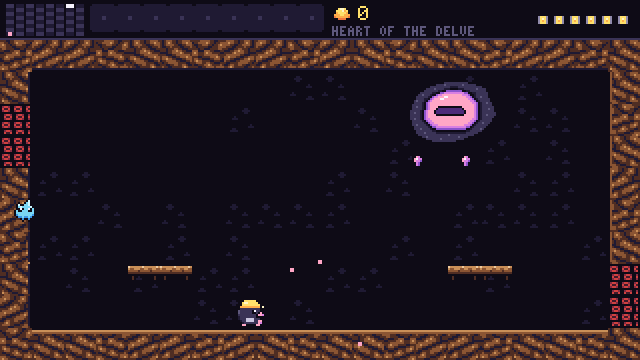
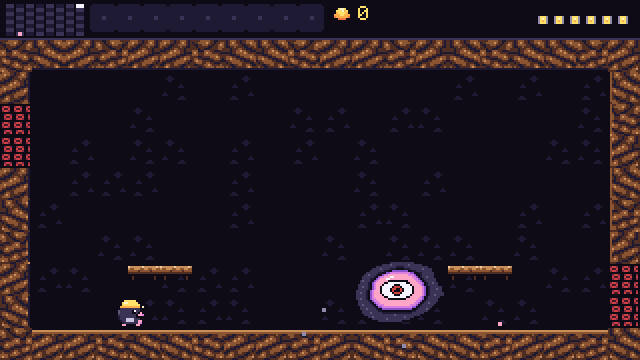
Docs, README and shots after the fidelity review
- Underdelve doc: the structure table shows coarse structure only (no
  Barbuta cells); checklist rows for the boss starting on entry, traps,
  glow-worms, the HUD, the relight, ground-only ladders, still pools,
  newt facings and secrets; shorter readings; new sources.
- Grub Shift doc: growth as the wiki words it, queens to eggs, the
  moundmaker acting once, the hivebug same-move rule, VOLATILE chains,
  GATHER, the streak kept after a win, the card diagrams; the save thread.
- README: both sections and the Underdelve row.
- Shots: the boss awake in its nest, the HUD without room names, the
  new card diagrams, and the 64-screen map re-stitched on the new plan.

diff --git a/docs/games/01-underdelve.md b/docs/games/01-underdelve.md
@@ -10,22 +10,23 @@ forum threads (listed under Sources). No UFO 50 images, video, maps, music or
 text were used as references.
 
 **Map type: fixed.** Barbuta's castle is one hand-made map, so ours is too
-(`underdelve_rooms.c`). It copies the original's structure where the text
-describes it, never its layouts:
+(`underdelve_rooms.c`). It follows the original's coarse structure where the
+text describes it; the rooms, their layouts and which grid cell holds what
+are ours (no feature stands in the cell the wiki gives it in Barbuta):
 
 | Structure | Barbuta (text sources) | UNDERDELVE |
 |---|---|---|
 | Map size | 8×8 flip screens [W] | 8×8 rooms (64 screens) |
 | Wrap-around | leaving one side brings you in on the other [MG], [SD] | rows open at the edge wrap east ↔ west |
-| Start | the left side of the map [GR] | Mo's camp, west side (A6) |
-| Final boss | top right, in a tower [W], [GR] | the Old Lode at G1, the Sunstone at H1 |
-| Life vendor | next to the boss [W], [GR] | the Lantern Keeper at F1 |
-| Shops | B4 and B7 [W] | Burlap's Post at B4, the Owl's Exchange at B7 |
-| Weapon trader | G8 [W] | the Salamander Forge at G8 |
-| Blood sword | push the blocks at C4, enter C5 and die on its spikes [W] | Block Room C4, Hungry Spikes C5 |
-| Key puzzle | ladders climbed in an order carved elsewhere, mirrored [W] (D5, hint H7) | Tally Ladders D5, Carved Tablet H7 |
-| Bat altar | A4 [W] | Canary Altar A4 |
-| Platform item | reached through a pool that looks deadly [W], [GR] (D7/E7) | Poison Pool D7 → Crank Vault E7 |
+| Start | the left side of the map [GR] | Mo's camp, west side |
+| Shops | two, near the start [W] | Burlap's Post and the Owl's Exchange, just east of the camp, one above and one below |
+| Final boss | a tower, top right [W], [GR] | the Old Lode's nest, top right; the Sunstone just east of it, round the wrap |
+| Life vendor | next to the boss [W], [GR] | the Lantern Keeper, next door |
+| Weapon trader | bottom right [W] | the Salamander Forge, bottom right |
+| Blood sword | push blocks, then die on the spikes below [W] | Block Room over Hungry Spikes |
+| Key puzzle | ladders climbed in an order carved elsewhere, mirrored [W] | Tally Ladders, and the Carved Tablet far away |
+| Bat altar | the west side [W] | Canary Altar, west |
+| Platform item | reached through a pool that looks deadly [W], [GR] | Poison Pool → Crank Vault |
 | Three ways to the boss | a switch, a locked door, a 500-cash hammer [GR], [SB] | the lever, the Deep Gate, the smith |
 
 The zones by depth are ours: the Headframe and Upper Workings (rows 1-2),
@@ -38,29 +39,33 @@ Deep (rows 7-8).
 |---|---|---|
 | No title screen | the cartridge boots straight into the camp | [MG] |
 | Controls | D-pad walks and climbs; A jumps; B thrusts the weapon | [W], [MM] |
-| One fixed jump | the same arc every time (tap or hold); no air control at all: every jump and every fall is committed | [W], [MM] |
+| One fixed jump | the same arc every time (tap or hold); no air control: every jump and every fall is committed | [W], [MM] |
 | Jump speed | a jump carries Mo's walking speed; a standing jump goes straight up | [W], [MM] (reading) |
 | Slow, stiff walker | full speed at once, no run; slower than every other UFO 40 hero | [W], [MG], [LN] |
 | Low jump | a little over two tiles; some drops can't be climbed back up | [TH] |
+| Ladders | taken from the ground only (no catching one in mid-air) | [W] |
 | Short weapon | the pick reaches barely past Mo; most foes take 2-3 hits | [W], [LZ] |
 | No hit feedback | nothing shows until a foe dies | [W] |
-| One-hit death | any foe, shot, spike, ooze or drip | [W], [MM], [LZ] |
+| One-hit death | any foe, shot, spike, ooze, drip or falling rock | [W], [MM], [LZ] |
 | Lives | six spare lanterns and the one Mo is on: seven lives | [MM], [GR] |
-| Respawn | where Mo came into the room, keeping his items and ore (holding the ladder if he came in on one) | [MM], [GR] |
+| Respawn | a spare lantern flickers alight where Mo came into the room; he keeps his items and ore | [MM], [GR], [LZ] |
 | Game over | with no lantern left, a death ends the delve; no continues, the next delve starts from the camp | [MM], [W] |
 | Buying lives | the Lantern Keeper, just before the boss: 100 a lantern, up to six | [W], [GR] |
-| Roaming Death | the Gloom moves one map cell, in a random direction, every time Mo changes room; the HUD map shows it | [W], [GR] |
+| Roaming Death | the Gloom moves one map cell, in a random direction, every time Mo changes room; the HUD map shows it; nothing explains it | [W], [GR], [SM] |
 | Roaming Death in a room | rises in the middle, then chases Mo at twice his speed; can't be hurt; its touch ends the delve (every lantern at once); leaving the room escapes it | [W], [MG] |
-| Flip-screen map | 8×8 screens; a HUD map shows Mo's room and the Gloom's | [W], [MM] |
-| Foes come back | every foe returns when Mo re-enters a room; ore and items stay taken | [W] |
-| Money | chests struck open (50 or 100), loose gems (100), miner's shrines that pay 100 once their room is clear | [W] |
-| Crumbly walls | the pick chips unstable walls; ore can hide inside | [W] |
-| Hidden things | walk-through rock, invisible blocks, ladders that appear once climbed | [W], [GR], [SD] |
-| Deaths on purpose | dying on one room's spikes brings Mo back where only the dead can go (the hungry pick) | [W], [SC] |
+| HUD | ore, items, lanterns and the map; no room names | [MM], [MG] |
+| Flip-screen map | 8×8 screens | [W] |
+| Foes | always where the map puts them, and back whenever Mo re-enters a room; ore and items stay taken | [W] |
+| Traps | a floor tile with a faint seam drops a loose rock from the ceiling; it kills and stays where it lands. One right beside the start | [GR], [SS], [MG] |
+| Hint-givers | five glow-worms, each with one cryptic line (UP beside them) | [LZ] |
+| Money | chests struck open (50 or 100), loose gems (100), miner's shrines that pay 100 once their room is clear, ore in cracked rock | [W] |
+| Secrets | walk-through rock hiding gems, cracked rock that gives way to three blows (a gem behind it or ore inside), invisible blocks, ladders that appear once climbed | [W], [GR], [SD], [SC], [LZ] |
+| Still pools | the harmless ooze lies still; only deadly ooze churns | [SD] |
+| Deaths on purpose | dying on one room's spikes brings Mo back where only the dead can go (the hungry pick) | [W], [TT] |
 | Push blocks | holding against crates slides them and opens a way down | [W], [GR] |
 | Ceiling drips | deadly without the umbrella (our copper pot) | [W] |
 | Magic bubbles | crystal the pick pops once Mo has the pin (our tuning fork) | [W] |
-| Red platforms | the mine lifts only run with the necklace (our gear crank) | [W] |
+| Red platforms | the mine lifts only run with the necklace (our gear crank) | [W], [GR] |
 | Candy | climbing gloves: twice as fast on ladders | [W] |
 | Key | opens the tower door (our brass tally and the Deep Gate) | [W] |
 | Trash | an old boot, 50 ore, useless | [W] |
@@ -70,7 +75,7 @@ Deep (rows 7-8).
 | Blood sword | the hungry pick hits twice as hard | [W] |
 | Shop prices | pot 100 (Burlap) or 50 (Owl), boot 50, fork 200, gloves 100, lanterns 100, the smith 500 | [W], [GR] |
 | Items aren't explained | nothing tells Mo what an item does | [MG] |
-| Boss start | the Old Lode sleeps in its nest until Mo strikes it | [SB] (reading) |
+| Boss start | the fight starts as Mo reaches the nest; the way back closes behind him | [TH] |
 | Final boss | 8 hits; drifts overhead dropping two shots at once, now and then drops to the floor, where it can be hurt; wisps cross the arena on a wave | [W] |
 | Goals | see Additions | [W], [GR] |
 
@@ -81,7 +86,7 @@ Deep (rows 7-8).
 | Dustmoth | 1 | flies through walls, changing direction at random | Bat |
 | Hop toad | 3 | hops four tiles left or right at random, bouncing off walls | Hopper |
 | Grub | 2 | crawls to and fro, turning at walls and ledges | Slime |
-| Axe newt | 2 | stays put facing one way and throws an axe four tiles ahead on a beat | Lizard |
+| Axe newt | 2 | stays put facing the way the map sets and throws an axe four tiles ahead on a beat | Lizard |
 | Swooper | 1 | hovers, then swoops at Mo | Fly |
 | Grabsack | 10 | a chest until Mo is within three tiles, then hops a tile at a time | Mimic |
 | Shellback | 3 | walks to and fro; only hurt from behind | Knight |
@@ -94,9 +99,9 @@ Deep (rows 7-8).
 - Numbers (walk 1 px/frame, jump 2.2 tiles, Gloom 2 px/frame): no source
   gives any.
 - The jump keeps walking speed ("single fixed jump", "no mid-air adjustment").
-- "Strike the blue egg" (a player's guess [SB]): any weapon wakes the Old Lode.
+- Ladders: a hop off one (A with a direction) is kept; Mo can reach a ladder
+  whose foot is just above his head.
 - Buying: UP at a shop, as up enters Barbuta's doors [MM].
-- No foe is placed within 40 px of Mo when he comes into a room.
 
 ## What is ours
 
@@ -108,13 +113,14 @@ Deep (rows 7-8).
 - **Items:** Copper Pot, Tuning Fork, Gear Crank, Climbing Gloves, Brass
   Tally, the Canary, Old Boot, the Sparker, Hungry Pick.
 - **Characters:** Burlap the toad, the Owl, the Forge salamander, the Lantern
-  Keeper, and the Smith with his sledgehammer.
+  Keeper, the Smith with his sledgehammer, and the glow-worms and their lines.
 - **Foes:** dustmoths, hop toads, grubs, axe newts, swoopers, grabsacks,
   shellbacks, wisps, the Gloom and the Old Lode.
-- **Map:** 64 original hand-built screens (`underdelve_rooms.c`).
+- **Map:** 64 original hand-built screens (`underdelve_rooms.c`) and where
+  each one stands.
 - **Music:** four original UFO-MML tracks (the mine theme, the Ember Deep
   theme, the boss theme, the victory theme) plus jingles. Barbuta has no
-  music; ours stays by choice.
+  music; Hamza keeps ours, and the death jingle, by choice.
 
 ## Additions: none
 
@@ -123,7 +129,7 @@ Only the platform needs every UFO 40 cartridge has:
 - the START pause menu;
 - saving: the delve is saved as it goes (each death at once), and a
   cartridge with a delve in progress asks CONTINUE or NEW DELVE; a game over
-  erases it;
+  erases it (Barbuta itself doesn't save);
 - the three UFO 40 goals, which replicate Barbuta's own three:
 
 | UFO 40 goal | Condition | Barbuta's goal |
@@ -137,7 +143,7 @@ Only the platform needs every UFO 40 cartridge has:
 | Input | Action |
 |---|---|
 | D-pad left/right | walk |
-| D-pad up/down | climb (hold UP mid-jump to catch a ladder); UP also buys, pulls the lever, pays the smith |
+| D-pad up/down | climb (a ladder is taken from the ground); UP also buys, pulls the lever, pays the smith, asks a glow-worm |
 | A | jump (one fixed arc) |
 | B | thrust the pick / fire the sparker |
 | START | pause menu |
@@ -148,35 +154,45 @@ Headless tests drive Mo with real button presses (`ud_*.ufs`); cheats only
 set up a room. Probes built on the game's own physics check the level
 design: every spot reachable on foot in every room (`reach_lost`), the rooms
 reachable from the camp with given items and gates (`reach_rooms_I_F`),
-things that can't be walked up to (`reach_missing_I_F`) and rooms whose way
-in would drop a returning Mo onto spikes (`respawn_traps`).
+things that can't be walked up to (`reach_missing_I_F`), rooms whose way in
+would drop a returning Mo onto spikes (`respawn_traps`) and foes placed on
+a way in (`entry_foes`).
 
 ## Sources
 
 - [W] UFO 50 Wiki (Miraheze), "Barbuta": controls, the committed jump, the
-  8×8 castle, items and where they are, prices, money, foes, the Roaming
-  Death, the Malignance, goals. https://ufo50.miraheze.org/wiki/Barbuta
+  8×8 castle, items, prices, money, foes, the Roaming Death, the Malignance,
+  goals. https://ufo50.miraheze.org/wiki/Barbuta
 - [MM] Steam guide "The missing manuals - How to play UFO 50 games": one
   jump height whether tapped or held, the thrust, up into doors, six eggs,
-  "no continues, nor a save system".
+  the sidebar (cash, items, map), "no continues, nor a save system".
   https://steamcommunity.com/sharedfiles/filedetails/?id=3350227767
 - [GR] Game Rant, "UFO 50: Barbuta Walkthrough (All Items, Secrets, and
-  Cherry)": respawning in the room, the egg vendor, the three paths and the
-  hammer's 500, the cherry.
+  Cherry)": the first tile to the right that drops the ceiling, respawning
+  in the room, the egg vendor, the three paths and the hammer's 500.
   https://gamerant.com/barbuta-walkthrough-items-secrets-cherry-ufo-50/
+- [SS] Set Side B, "A walkthrough of Barbuta": the first screen's trap.
+  https://setsideb.com/a-walkthrough-of-barbuta-ufo-50-1/
 - [MG] MoeGamer, "UFO 50: Kicking things off with Barbuta": no title screen,
-  sedate walking, the skull takes every life, the wrap, unexplained items.
-  https://moegamer.net/2024/09/20/ufo-50-kicking-things-off-with-barbuta/
-- [SD] Steam thread "Barbuta Discussion": the loop, invisible ladders.
+  sedate walking, the mean first-screen trap, the skull, the wrap, items
+  never explained. https://moegamer.net/2024/09/20/ufo-50-kicking-things-off-with-barbuta/
+- [SD] Steam thread "Barbuta Discussion": the loop, invisible ladders, the
+  still (non-animated) pools.
   https://steamcommunity.com/app/1147860/discussions/0/4852154959746326166
 - [SB] Steam thread "Barbuta: Can't seem to find a way to beat this game":
-  the blue egg, the invisible block, the lever, the altar.
+  the invisible block, the lever, the altar.
   https://steamcommunity.com/app/1147860/discussions/0/592887778739535799/
-- [TH] Thoughts on Series, "Thoughts on Barbuta": one-way drops.
+- [SM] Steam thread on the map dot: learn what it is by meeting it.
+  https://steamcommunity.com/app/1147860/discussions/0/4699034745340532462
+- [TH] Thoughts on Series, "Thoughts on Barbuta": one-way drops, the boss
+  room closing behind you.
   https://thoughtsonseries.substack.com/p/thoughts-on-barbuta-ufo-50
-- [LZ] Lizstar, UFO 50 #1: one-hit deaths, the short sword.
+- [LZ] Lizstar, UFO 50 #1: one-hit deaths, the short sword, hint-giving
+  blobs, cracked blocks, lives as eggs you hatch out of.
   https://lizstar64.github.io/reviews/2024/10/03/UFO50-1.html
+- [SC] Static Canvas, "The UFO 50 Diaries: Barbuta": hidden walls covering
+  secrets. https://staticcanvas.substack.com/p/the-ufo-50-diaries-barbuta
 - [LN] Lost Nostalgia, UFO 50 games 1-25: "painfully sluggish".
   https://lostnostalgia.com/ufo-50s-every-game-played-and-graded-1-25
-- [SC] Search summaries of the TV Tropes recap: dying on purpose to come back
+- [TT] Search summaries of the TV Tropes recap: dying on purpose to come back
   somewhere out of reach.

diff --git a/docs/games/02-grub-shift.md b/docs/games/02-grub-shift.md
@@ -47,23 +47,24 @@ too (`gs_new_contract`, `deal_terrain`). Generator rules:
 | Lobs | hit one tile, any height | [W] |
 | Blasts | only reach tiles at the pod's height; being high is safe | [W] |
 | Aiming preview | aiming shows every tile the attack will reach, chains and sparks included | [L] |
+| Tool cards | rolls and straight shots drawn as a solid line from Tilly, hops, lobs and area tools as dots | [W] |
 | Quota | 30 grubs per contract | [S], [L] |
 | Shifts | 10 on contracts 1-3, 9 on 4-6, 8 after | [W], [S] |
-| Growing | a colour grows when its larvae survive a night: they become adults and its grubs hatch as adults from then on. One colour a night, two per contract | [W], [S] |
-| Ageing | each night every adult becomes a queen and every queen an egg (not on the last night) | [W], [S], [ST] |
+| Growing | each night one type (colour) with grubs still alive evolves: all its grubs go up a level (larva, adult, queen) and its new grubs hatch at that level from then on. One type a night, two per contract; a field cleared by nightfall evolves nothing | [W], [S] |
+| Eggs from queens | every queen left alive becomes an egg overnight (not on the last night) | [W] |
 | Eggs | an egg left at the end of a shift hatches: you're fired | [W] |
 | Eggs don't count | nor do drones | [W] |
 | Losing | an egg hatches, the quota isn't met, or Tilly is caught by a blast, sparks or her own attack | [W] |
 | Colours | three larva colours, each growing into one of a pair of species; which one flips each contract | [W], [D] |
 | Abilities | only attacks and blasts trigger them (not squashes, pits, pods or sprays) | [W] |
 | Sparkmite (Shreknid) | popped, sprays sparks 2 tiles each way at its height; higher ground stops them | [W] |
-| Hivebug (Dragonfloosh) | grows up with a drone; while it's beside it the hivebug can't be hurt, squashed or popped by OVERDRIVE, but can be shoved (a pit kills it); a drone shoved away dies and doesn't count | [W], [D] |
-| Moundmaker (Feloris) | when it appears and every morning, raises its own tile and lowers the planters beside it, unless another moundmaker or a pod is on them | [W], [FD] |
+| Hivebug (Dragonfloosh) | grows up with a drone; while it's beside it the hivebug can't be hurt, squashed or popped by OVERDRIVE, but can be shoved (a pit kills it); a move that kills its drones and also hits it kills both, in either order; a drone shoved away dies and doesn't count | [W], [D] |
+| Moundmaker (Feloris) | once, when it appears, raises its own tile and lowers the planters beside it, unless another moundmaker or a pod is on them | [W] |
 | Sourmite (Quasnar) | spoils the pods beside it (so no pod blast can reach it); when it dies they turn back into pods | [W] |
 | Sour pods | picking one up costs energy (not below 0); shooting one adds another; three become an egg; a grub shoved into one grows a stage, a drone becomes a larva, an egg hatches | [W] |
 | Shellbug (Armodon) | one extra hit against attacks and blasts | [W] |
 | Burrower (Cephalug) | popped by an attack or blast, leaves a hole | [W] |
-| Streak | a won contract leads to the next; a lost one ends the streak | [W], [S] |
+| Streak | a won contract leads to the next; stopping after a win keeps the streak (the title offers the next contract); a lost contract or NEW CONTRACT ends it | [W], [S], [SV] |
 
 ### The 41 tools
 
@@ -98,12 +99,12 @@ Costs and effects follow the wiki's module list [W]; the names are ours.
 | SEED | Resupply | 2 | drop a pod on any free tile |
 | TILL | Shift | 2 | lower one planter, raise another tile |
 | OVERDRIVE | Power Up | 4 | for the shift, grubs Tilly touches die, no abilities |
-| GATHER | Collect | 2 | collect a pod and every pod around it |
+| GATHER | Collect | 2 | collect every pod in a 3x3 centred on any tile |
 | RELOAD | Barrage | 4 | recharge all attacks |
 | REFUEL | Accelerate | 4 | recharge all moves |
 | BOOST | Maximize | 4 | for the shift, straight tools reach all the way, in 8 directions |
 | BORE | Dig | 4 | open a hole next to a hole; a grub there dies, no ability |
-| VOLATILE | Intensify | 4 | for the shift, grubs killed by attacks explode |
+| VOLATILE | Intensify | 4 | for the shift, grubs killed by attacks, blasts or sparks explode (it chains) |
 | REWIND | Devolve | 3 | any grub (or egg) and its neighbours become larvae |
 | MIST | Spray | 2 | mist two free tiles for the contract |
 | RESTOCK | Replenish | 4 | four new pods fall (a third on a tile blows) |
@@ -118,7 +119,7 @@ Costs and effects follow the wiki's module list [W]; the names are ours.
 - Ground each morning: "some terrain spawns naturally at the beginning of
   the day, including one hole and a number of platforms" [W] is read as a
   fresh deal every day (a pile-up would fill 30 tiles in days).
-- Growth: a colour grows to adults once; the grubs then age nightly.
+- Which type evolves when several could: one at random.
 - Nightly pods fall on distinct tiles, never on Tilly or a grub.
 - BOOST adds diagonals; VOLATILE counts kills; CRACK is a normal blast.
 - Numbers of grubs and pods per morning (sources give none).
@@ -141,8 +142,8 @@ Costs and effects follow the wiki's module list [W]; the names are ours.
 Only the platform needs every UFO 40 cartridge has:
 
 - the START pause menu (resume, restart, controls, quit);
-- saving: the contract in progress and the streak are saved, and CONTINUE
-  SHIFT resumes them;
+- saving: the contract in progress is saved and CONTINUE SHIFT resumes it
+  (Bug Hunter itself only lets you stop between contracts);
 - the three UFO 40 goals, which replicate Bug Hunter's own three:
 
 | UFO 40 goal | Condition | Bug Hunter's goal |
@@ -171,7 +172,7 @@ function of it. Headless tests set up exact situations with cheats (`bug`,
 `pods`, `sour`, `elev`, `hole`, `chip`, `use`) and check the results; others
 play through the UI with real buttons. A bot that looks two moves ahead and
 breaks eggs first plays whole contracts as a balance check (it wins about
-half of contract 1).
+two contract 1s in five).
 
 ## Sources
 
@@ -199,9 +200,8 @@ half of contract 1).
 - [D] Steam thread "Bug Hunter advice?": colours alternate species by job,
   shoving a hivebug away from its drone, spray.
   https://steamcommunity.com/app/1147860/discussions/0/694249731368441297/
-- [ST] Static Canvas, "The UFO 50 Diaries: Bug Hunter": the longer they
-  survive the more they evolve. https://staticcanvas.substack.com/p/the-ufo-50-diaries-bug-hunter
-- [FD] Search summary of the fandom wiki: "on their turn, all Felorises raise
-  their ground".
 - [R] Review summary found by search: "a six by five grid".
 - [WP] Wikipedia, "UFO 50": the 5×6 grid. https://en.wikipedia.org/wiki/UFO_50
+- [SV] Steam thread "Which games save progress?": Bug Hunter lets you save
+  and quit, or carry on, after completing a job, not in the middle of one.
+  https://steamcommunity.com/app/1147860/discussions/0/4849904176633630339/

diff --git a/README.md b/README.md
@@ -50,7 +50,7 @@ screenshot and GIF on this page.
 
 | # | Cartridge | Tribute to | What plays the same | What's ours |
 |---|---|---|---|---|
-| 01 | **UNDERDELVE** | Barbuta | an 8×8 wrapping map, one-hit deaths, six spare lives and no continue, one fixed jump with no air control, a roaming death that moves a room whenever you do, hidden walls and ladders, a death taken on purpose, items that open the way, three paths to the final boss | Mo the mole, a dark mine, the Gloom, 64 new screens |
+| 01 | **UNDERDELVE** | Barbuta | an 8×8 wrapping map, one-hit deaths, six spare lives and no continue, one fixed jump with no air control, a roaming death that moves a room whenever you do, traps, hidden walls and ladders, hint-givers, a death taken on purpose, items that open the way, three paths to the final boss | Mo the mole, a dark mine, the Gloom, the glow-worms, 64 new screens |
 | 02 | **GRUB SHIFT** | Bug Hunter | a 6×5 field dealt afresh each morning, seven tools that each work once a shift, a shop open any time, pods that blow up in threes, grubs that grow by colour into adults, queens and eggs, 30 kills in 10, 9 or 8 shifts | Tilly the farm robot, the grub species, 41 tools |
 | 03 | **ROOFCAT** | Ninpek | one long auto-scrolling world, double jumps, thrown stars, a spirit that floats back after a death, token pickups, one final boss, a harder second loop | Harissa the courier cat, a Tunisian seaside town, Old Crab |
 | 05 | **PETAL PARADE** | Magic Garden | a 12×12 field, a trail of followers you must never run into, saving them on star pads for rising points, potions by strength, a witch who plants mushrooms | Lina the gardener, petalpups, sun circles, Madame Nettle |
@@ -91,13 +91,16 @@ the top.
   steered once he leaves the ground. Foes come back when you re-enter a room
   and show no damage until they die. The Gloom moves one room whenever Mo
   does; if it finds him it rises in the middle and comes at twice his speed.
-  There are hidden walls, invisible ladders and ledges, and one death you
-  must take on purpose. Items open the way: a copper pot for drips, a tuning
+  Nothing is explained. The first step right from the camp drops a rock
+  from the ceiling; walls hide gems, cracked rock gives way to the pick,
+  ladders and ledges hide, still pools are safe and churning ones aren't,
+  and one death must be taken on purpose. Glow-worms each give one
+  cryptic hint. Items open the way: a copper pot for drips, a tuning
   fork for crystal, a gear crank for the lifts, gloves, a brass tally, a
   canary and a hungry pick. There are three ways up to the Old Lode: a
   lever, the Deep Gate and a 500-ore sledgehammer.
-- **Ours:** Mo the mole, the mine and its 64 screens, the shopkeepers, every
-  tile and the music.
+- **Ours:** Mo the mole, the mine and its 64 screens (and which cell holds
+  what), the shopkeepers and glow-worms, every tile and the music.
 
 <details>
 <summary>The whole mine: all 64 screens, stitched from headless screenshots (spoilers)</summary>
@@ -120,9 +123,11 @@ the top.
   morning, and seven tool slots that each work once per shift. The shop is
   open any time: swap a tool in and use it at once. Rolls shove grubs and
   squash them from planters; shots can't go uphill. Energy pods blow up when
-  three share a tile. A colour grows when its larvae survive the night, and
-  grown grubs age into queens and then eggs; an egg left at the end of a
-  shift fails the contract. Clear 30 grubs before the shifts run out.
+  three share a tile. Each night one colour whose grubs survived grows a
+  level (larva, adult, queen), and its new grubs hatch at that level;
+  queens left overnight turn into eggs, and an egg left at the end of a
+  shift fails the contract. Clear 30 grubs before the shifts run out; stop
+  after a win and the streak waits for you.
 - **Ours:** Tilly the farm robot, the dome, the grub species and the names
   and looks of all 41 tools. Three contracts in a row make Employee of the
   Month.
